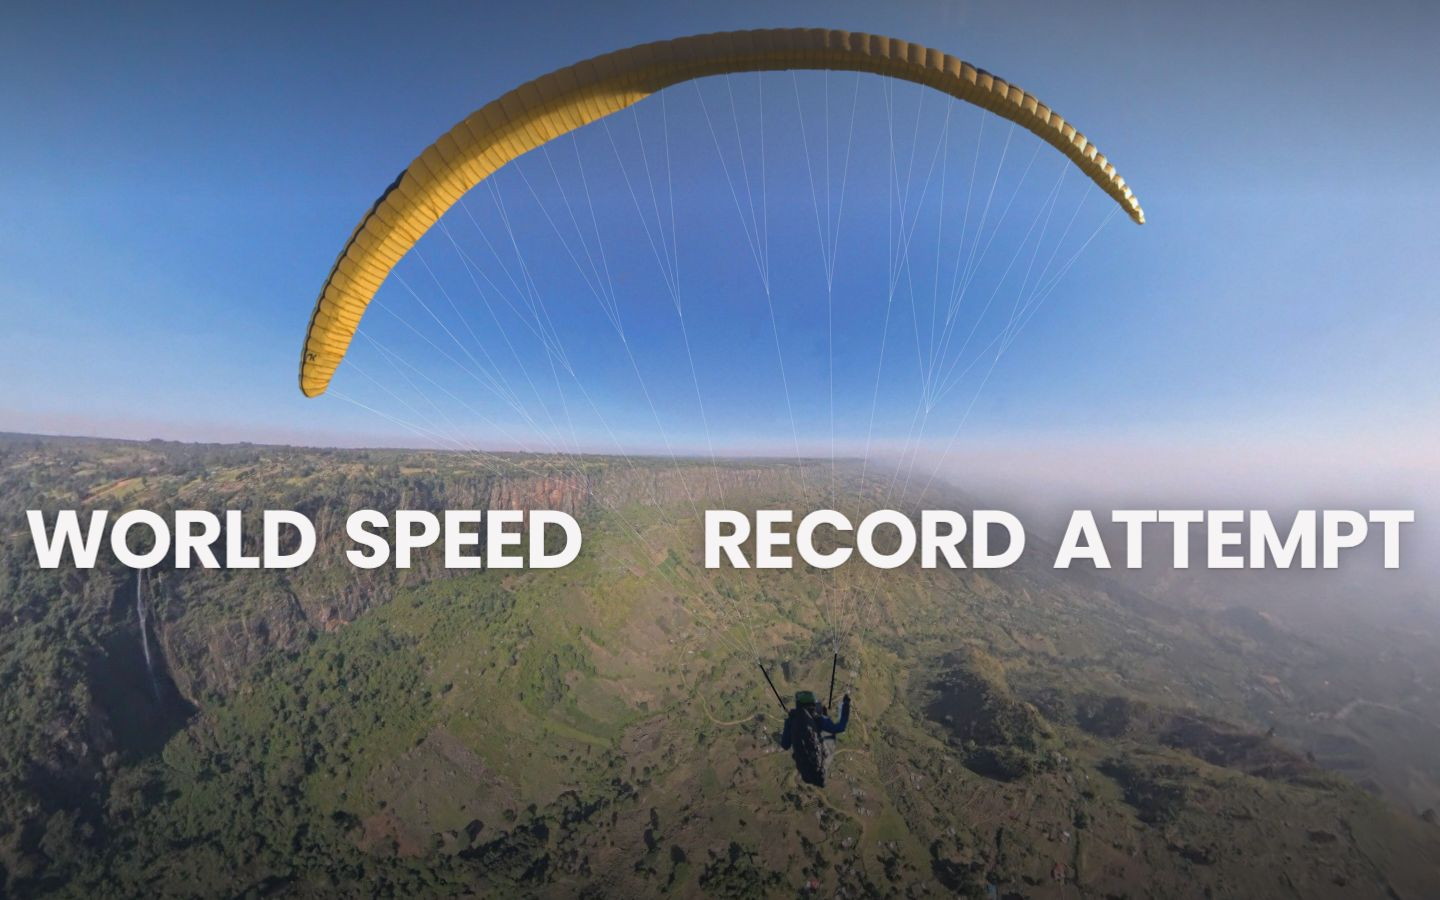
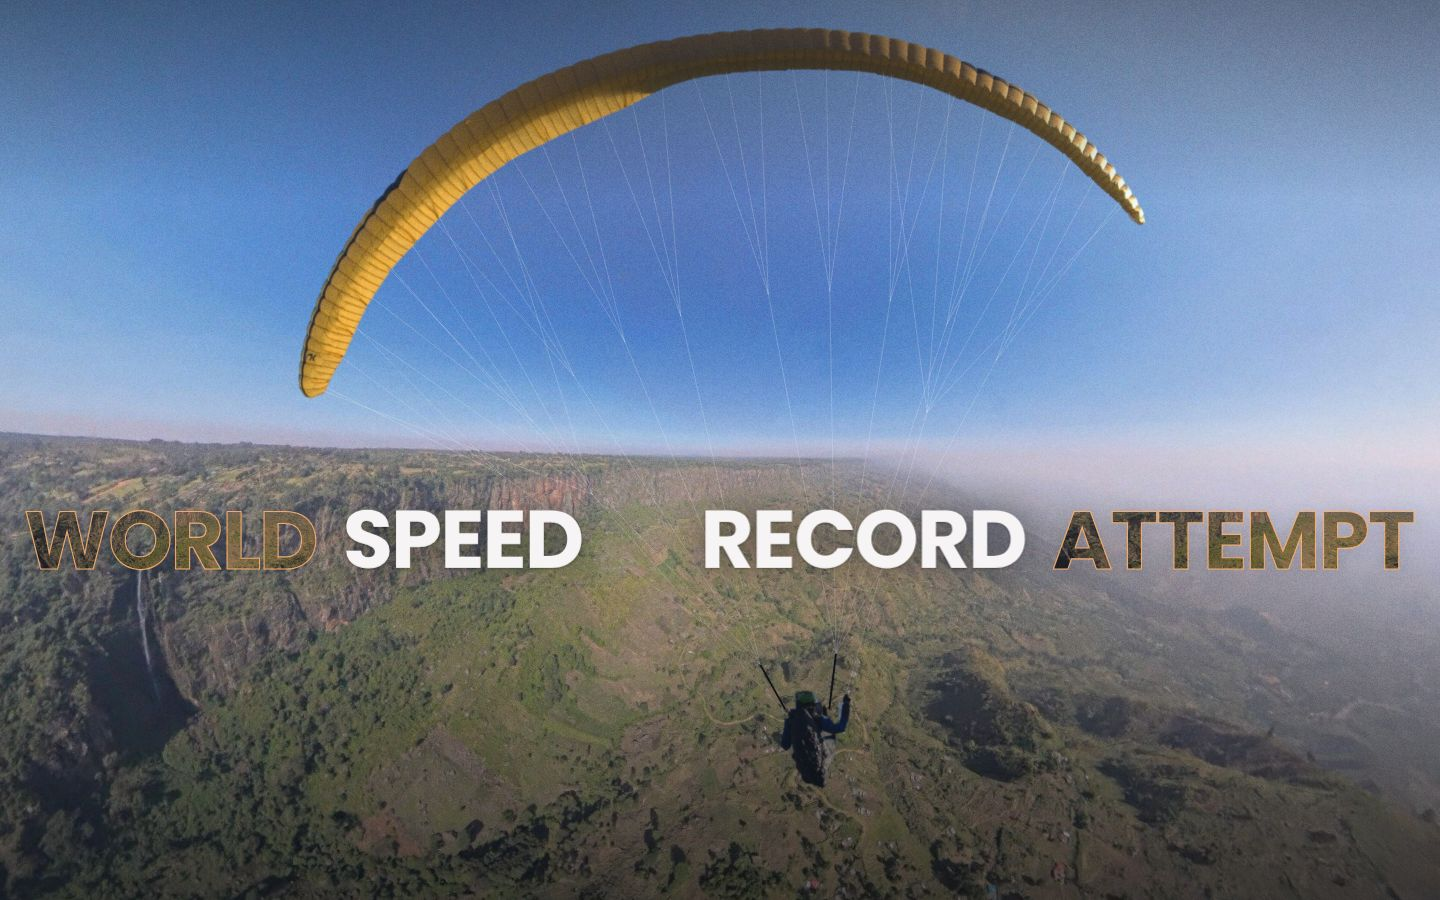
v4 Speed Record: the letterbox opening, and a title whose outer words rack from glass to focus to rock (owner)
The curtain's two panels are gone: the hero now opens as a widescreen frame, a thin slit of the
Kerio photograph that opens through 2.39:1 to the whole screen, with soft anamorphic light along
its edges, fine grain and the exposure rising from dark, the photograph's own depth move as the
push-in. SPEED RECORD stays solid white and sharp; WORLD and ATTEMPT recede and change with the
scroll, blended both ways: frosted glass in the slit, then soft focus behind the wing as the frame
opens, then the escarpment inside the letters with a warm hairline. Same reading order, the same
grow and split, four rows on a phone.

- record-hero.js and record-hero.css: the opening and the title; the doors and the seam removed.
  The title's photograph loads through the same BASE prefix as the hero's other files.
- record-attempt.html: only the hero's markup (the frame's bars, the title canvas, the grain);
  the rest of the page, the sky pictures' IMGS line included, is as on main.
- img/record/hero/still-1.jpg and still-3.jpg: the still frames redrawn with the new title.

Claude-Session: https://claude.ai/code/session_014sbQF9W1CqGXbH3oHgNsEB

Changed region(s): [[0.7188, 0.56, 1.0, 0.6533], [0.0, 0.56, 0.2188, 0.6533]]

diff --git a/prototypes/v4/record-hero.js b/prototypes/v4/record-hero.js
@@ -1,5 +1,5 @@
 /* The Speed Record hero on record-attempt.html (styles in record-hero.css; data from tools/v4_record_hero_prep.py):
-   the curtain opens on the Kerio photograph, which moves in depth as the visitor scrolls; the push into his seat;
+   a widescreen frame opens on the Kerio photograph, which moves in depth as the visitor scrolls; the push into his seat;
    then his logged run of 6 Feb 2025 over the escarpment, drawn from open terrain heights alone, with record pace
    (36.22 km/h) as a second light. Nothing moves unless the visitor scrolls. window.__snap (still frames only)
    makes the scroll's spring and the camera land at once. */
@@ -14,6 +14,64 @@ const $ = id => document.getElementById('srh-' + id);
    cannot rewrite inside a script; three.js is imported relative to this file */
 const BASE = (/^(.*\/prototypes\/v\d+\/)/.exec(location.pathname) || [0, '/assets/v4/'])[1], HERO = BASE + 'img/record/hero/';
 const LIVE = document.documentElement.classList.contains('wr-pin');     // set by the page when it may move: otherwise the still frames
+{                                       // fine film grain over the opening: one tile of noise, moved only with the scroll
+  const c = document.createElement('canvas'); c.width = c.height = 200; const x = c.getContext('2d'), d = x.createImageData(200, 200);
+  let sd = 7; for (let i = 0; i < d.data.length; i += 4) { sd = (sd * 16807) % 2147483647; const v = 128 + ((sd / 2147483647) - .5) * 190; d.data[i] = d.data[i + 1] = d.data[i + 2] = v; d.data[i + 3] = 255; }
+  x.putImageData(d, 0, 0); addEventListener('DOMContentLoaded', () => { $('grain').style.backgroundImage = `url(${c.toDataURL()})`; });
+}
+/* the title: SPEED RECORD solid white and sharp; WORLD and ATTEMPT recede, and change as the frame opens: frosted glass in
+   the slit, then soft and dim as the lens pulls focus past them (the wing and its lines in front), then settling into the
+   escarpment itself, warm inside the letters. Bound to the scroll, every step blended, so it runs the same both ways. */
+let TIMG = null, TPOS = null;
+function titleSetup() {
+  if (titleSetup.done) return; titleSetup.done = true;
+  $('wa').classList.add('srh-rec'); $('wd').classList.add('srh-rec');
+  TIMG = new Image(); TIMG.onload = kick; TIMG.src = HERO + 'plate.jpg';
+}
+function drawTitle(M, bright) {
+  const cv = $('tcv'), r = Math.min(devicePixelRatio || 1, 2), w = Math.round(W * r), h = Math.round(H * r);
+  if (cv.width !== w || cv.height !== h) { cv.width = w; cv.height = h; }
+  const c = cv.getContext('2d'); c.setTransform(1, 0, 0, 1, 0, 0); c.clearRect(0, 0, w, h);
+  if (!TPOS || !TIMG || !TIMG.complete || TPOS.exitK >= 1) return;
+  const { fs, ls, pos, exitK, eO } = TPOS, fade = 1 - exitK;
+  const wa = 1 - ss(seg(eO, .3, .5)), wc = ss(seg(eO, .62, .85)), wb = Math.max(0, 1 - wa - wc);
+  // each look comes in over the last, which stays at full strength until it is covered: the letters never thin out on the way
+  const ka = Math.min(1, 2 * wa), kb = Math.min(1, 2 * wb), kc = Math.min(1, 2 * wc);
+  const font = `700 ${fs}px Poppins`, spc = (ls * fs) + 'px';
+  const words = [['wa', 'WORLD', -1], ['wd', 'ATTEMPT', 1]].map(([id, t, side]) => ({ t, x: pos[id][0] + side * exitK * W * .6, y: pos[id][1] + fs * .78 }));
+  const text = (cx, stroke) => { cx.font = font; try { cx.letterSpacing = spc; } catch (e) {} cx.textBaseline = 'alphabetic'; for (const q of words) stroke ? cx.strokeText(q.t, q.x, q.y) : cx.fillText(q.t, q.x, q.y); };
+  const buf = id => {
+    const b = drawTitle[id] || (drawTitle[id] = document.createElement('canvas')); if (b.width !== w || b.height !== h) { b.width = w; b.height = h; }
+    const x = b.getContext('2d'); x.setTransform(1, 0, 0, 1, 0, 0); x.globalCompositeOperation = 'source-over'; x.filter = 'none'; x.clearRect(0, 0, w, h); x.setTransform(r, 0, 0, r, 0, 0); return [b, x];
+  };
+  // both words in one mask (cutting with each in turn would leave only where they overlap)
+  const [mk, mc] = buf('mk'); mc.fillStyle = '#000'; text(mc);
+  const fill = paint => { const [b, x] = buf('off'); paint(x); x.setTransform(1, 0, 0, 1, 0, 0); x.globalCompositeOperation = 'destination-in'; x.drawImage(mk, 0, 0); return b; };
+  c.setTransform(r, 0, 0, r, 0, 0);
+  // a soft shadow under the letters, so they hold on sky and on rock
+  c.save(); c.globalAlpha = fade * (.35 + .65 * (wa + wc)); c.shadowColor = 'rgba(6,8,12,.45)'; c.shadowBlur = 22; c.shadowOffsetY = 4; c.fillStyle = 'rgba(6,8,12,.3)'; text(c); c.restore();
+  if (wa > .003) {        // a: frosted glass, the photograph behind seen blurred and lifted, a light edge
+    const lift = .1 + .25 * (1 - bright);
+    const b = fill(x => {
+      x.filter = `blur(10px) brightness(${(1.12 * bright).toFixed(3)}) saturate(.8)`; x.drawImage(TIMG, L.tx, L.ty, 1920 * L.s, 1080 * L.s); x.filter = 'none';
+      x.fillStyle = `rgba(246,244,244,${lift.toFixed(3)})`; x.fillRect(0, 0, W, H); x.fillStyle = 'rgba(20,21,25,.14)'; x.fillRect(0, 0, W, H);
+    });
+    c.globalAlpha = fade * ka; c.drawImage(b, 0, 0, W, H); c.lineWidth = 1.1; c.strokeStyle = 'rgba(255,255,255,.5)'; text(c, true);
+  }
+  if (wb > .003) {        // b: out of focus, dimmer
+    c.save(); c.globalAlpha = fade * kb; c.filter = 'blur(1.4px)'; c.fillStyle = 'rgba(232,230,230,.82)'; text(c); c.restore();
+  }
+  if (wc > .003) {        // c: the escarpment's cliffs, darker and warm, inside the letters, a warm hairline
+    c.font = font; try { c.letterSpacing = spc; } catch (e) {}
+    const tw = words.map(q => c.measureText(q.t).width);
+    const b = fill(x => { x.filter = 'brightness(.7) sepia(.35) saturate(1.35) contrast(1.15)'; words.forEach((q, i) => x.drawImage(TIMG, 260, 560, 900, 260, q.x - 4, q.y - fs * .78, tw[i] + 8, fs * .86)); x.filter = 'none'; });
+    c.globalAlpha = fade * kc; c.drawImage(b, 0, 0, W, H); c.lineWidth = 1.1; c.strokeStyle = 'rgba(255,178,112,.9)'; text(c, true);
+  }
+  c.globalAlpha = 1;
+  if (wb > .003 && M) {   // while out of focus they sit behind the wing: its shape is cut out of them
+    c.save(); c.globalAlpha = kb * (1 - kc); c.globalCompositeOperation = 'destination-out'; c.setTransform(r * M[0], r * M[1], r * M[2], r * M[3], r * M[4], r * M[5]); c.drawImage($('wing'), 0, 0); c.restore();
+  }
+}
 const clamp = (x, a = 0, b = 1) => Math.min(b, Math.max(a, x));
 const lerp = (a, b, t) => a + (b - a) * t;
 const seg = (x, a, b) => clamp((x - a) / (b - a));
@@ -53,7 +111,7 @@ function layout() {
   for (const id of ['wa', 'wb', 'wc', 'wd']) { const el = $(id); el.style.fontSize = '100px'; el.style.letterSpacing = '-.025em'; em[id] = (el.offsetWidth + 2.5) / 100; }
   const g = parseFloat(getComputedStyle(document.documentElement).getPropertyValue('--gut')) || 24, SP = .3;
   const line = em.wa + em.wb + em.wc + em.wd + 2 * SP;
-  // closed: one line across the seam; open: one line edge to edge on a wide screen, four stacked lines on a phone
+  // in the slit: one small line; open: one line edge to edge on a wide screen, four stacked lines on a phone
   const ls0 = phone ? .3 : .5, chars = 25;
   L.fs0 = phone ? Math.min(W * .05, (W / 2 - g - 20) / (Math.max(em.wa, em.wb, em.wc, em.wd) + ls0 * 7)) : Math.min(W * .026, 38, (W - 2 * g - 40) / (line + ls0 * chars)); L.ls0 = ls0;
   L.fs = phone ? Math.min(W * .16, (W - 2 * g) / Math.max(em.wa, em.wb, em.wc, em.wd)) : Math.min(H * .17, (W - 2 * g - W * .08) / line);
@@ -542,22 +600,24 @@ function frame(now) {
   const u = uS;
   const eO = seg(u, 0, U_OPEN), eG = seg(u, U_OPEN * .4, U_GLIDE), eT = seg(u, U_GLIDE, U_TRANS), eE = seg(u, U_FLY, U_END);
 
-  /* the curtain: two panels part, a little toward the viewer, light through the seam */
-  const o = io(eO), gap = o * W * .5;
-  const ang = Math.sin(Math.PI * Math.min(1, eO * 1.15)) * 9 + o * 6;
-  $('dl').style.transform = `translate3d(${-gap}px,0,${o * 60}px) rotateY(${ang}deg)`;
-  $('dr').style.transform = `translate3d(${gap}px,0,${o * 60}px) rotateY(${-ang}deg)`;
-  $('doors').style.visibility = eO >= 1 ? 'hidden' : 'visible';
-  const sk = 1 - seg(eO, .05, .55);
-  $('seam').style.opacity = sk; $('seam').style.transform = `scaleX(${1 + 30 * o})`;
+  /* the opening: a widescreen frame opening out, a thin slit, then 2.39:1, then the whole screen; flares along its edges,
+     the exposure rising from dark; the push-in is the photograph's own depth move (below), so the frame never shows its edges */
   $('cue').style.opacity = 1 - seg(eO, .02, .12);
-  // the photograph pushes forward as the panels open, and lights up
-  const push = lerp(.9, 1.0, out(eO));
-  $('photo').style.transform = push < 1 ? `scale(${push})` : '';
-  $('photo').style.filter = eO < 1 ? `brightness(${lerp(.55, 1, out(eO)).toFixed(3)})` : 'none';
-  $('plate').style.transform = `translate3d(${L.tx}px,${L.ty}px,0) scale(${L.s})`;
-  // the words: grow, tracking tightens, the halves ride the panels to the edges
   {
+    const slit = H * (phone ? .03 : .04), lb = Math.min(H, W / 2.39);
+    const h = lerp(lerp(slit, lb, ss(seg(eO, 0, .42))), H, io(seg(eO, .38, 1)));
+    const bar = Math.max(0, (H - h) / 2);
+    for (const id of ['lbt', 'lbb']) { const el = $(id); el.style.display = 'block'; el.style.height = bar + 'px'; el.style.visibility = bar > 0 ? 'visible' : 'hidden'; }
+    const fl = (1 - seg(eO, .8, 1)) * (.55 + .45 * ss(seg(eO, 0, .3)));
+    for (const el of document.querySelectorAll('.srh-lb i, .srh-lb em')) el.style.opacity = fl;
+    $('grain').style.opacity = eT < 1 ? .09 : 0; $('grain').style.backgroundPosition = `${(u * 9137) % 200}px ${(u * 5651) % 200}px`;
+  }
+  const push = 1, bright = lerp(.3, 1, ss(seg(eO, .03, .95)));
+  $('photo').style.filter = eO < 1 ? `brightness(${bright.toFixed(3)})` : 'none';
+  $('plate').style.transform = `translate3d(${L.tx}px,${L.ty}px,0) scale(${L.s})`;
+  // the words: grow from the slit, tracking tightens, the halves ride out to the edges
+  {
+    titleSetup();
     let fs = lerp(L.fs0, L.fs, out(seg(eO, 0, .85))), ls = lerp(L.ls0, -.025, out(seg(eO, 0, .9))), g = L.g, sp = (L.SP + Math.max(0, ls)) * fs;
     const ids = ['wa', 'wb', 'wc', 'wd'], w = {}, pos = {};
     const measure = f => { for (const id of ids) { const el = $(id); el.style.fontSize = f + 'px'; el.style.letterSpacing = ls + 'em'; w[id] = el.offsetWidth - ls * f; } };
@@ -569,7 +629,7 @@ function frame(now) {
     const k = io(seg(eO, .05, 1)), exitK = io(seg(eT, 0, .6));
     if (!phone) {
       // one line: WORLD SPEED | RECORD ATTEMPT, the seam between the halves; the halves ride to the edges
-      const y = lerp(H * .46, H * .6, io(eO)) - fs * .43;
+      const y = lerp(H * .5, H * .6, io(eO)) - fs * .43;
       let cB = W / 2 - 14 - w.wb, cC = W / 2 + 14;
       const ovR = cC + w.wc + sp + w.wd - (W - g); if (ovR > 0) { cB -= ovR; cC -= ovR; }     // the longer right half: the whole line slides to fit
       const ovL = g - (cB - sp - w.wa); if (ovL > 0) { cB += ovL; cC += ovL; }
@@ -580,7 +640,7 @@ function frame(now) {
       Object.assign(pos, { wa: [xa, y], wb: [xb, y], wc: [xc, y], wd: [xd, y] });
     } else {
       // four rows: WORLD and SPEED to the left of the seam, RECORD and ATTEMPT to the right; they ride out to the edges
-      const lh = fs * .9, yc = lerp(H * .46, H * .56, io(eO)) - fs * .43;
+      const lh = fs * .9, yc = lerp(H * .5, H * .56, io(eO)) - fs * .43;
       ids.forEach((id, r) => {
         const left = r < 2, x = left ? lerp(W / 2 - 14 - w[id], g, k) : lerp(W / 2 + 14, W - g - w[id], k);
         pos[id] = [clamp(x, g, W - g - w[id]), yc + (r - 1.5) * lh];
@@ -590,11 +650,12 @@ function frame(now) {
       const side = id === 'wa' || id === 'wb' ? -1 : 1, x = pos[id][0] + side * exitK * W * .6, y = pos[id][1];
       const el = $(id); el.style.transform = `translate3d(${x}px,${y}px,0)`; el.style.opacity = 1 - exitK;
     }
+    TPOS = { fs, ls, pos, exitK, eO };
   }
 
   /* the glide: the land slides back under him, the far ridge drifts, he flies on; then the push into his seat */
   const ready = G && PATH;
-  const gp = eE > 0 ? 0 : ss(eG), jT = io(eT);
+  const gp = eE > 0 ? 0 : Math.max(ss(eG), .35 * ss(eO)), jT = io(eT);
   {
     const th = .016 * Math.sin(Math.PI * 1.5 * gp), sc = 1 + .05 * gp, dr = [(PV[0] - PIL[0]) * .07 * gp, (PV[1] - PIL[1]) * .07 * gp];
     const zoom = eE > 0 ? 1 : lerpLog(1, 7, io(seg(eT, 0, .85)));
@@ -609,6 +670,7 @@ function frame(now) {
     $('photo').style.opacity = photoA; $('photo').style.visibility = photoA > 0 ? 'visible' : 'hidden';
     if (photoA > 0) drawPhoto(eE > 0 ? 0 : .16 * gp + .3 * jT, -.01 * gp, eE > 0 ? 0 : -.03 * jT);
     drawRig(M, push, wingA * (eE > 0 ? 1 : 1 - seg(eT, .2, .5)));
+    drawTitle(M, bright);
   }
   $('veil').style.opacity = 1 - seg(eT, .3, .8) * .45 * (1 - eE);
 

diff --git a/prototypes/v4/record-hero.css b/prototypes/v4/record-hero.css
@@ -1,4 +1,4 @@
-/* The Speed Record hero (record-hero.js): the curtain, the Kerio photograph in depth, the push into his seat,
+/* The Speed Record hero (record-hero.js): the letterbox opening, the Kerio photograph in depth, the push into his seat,
    and his logged run over the escarpment drawn from heights alone. Still frames when motion is off or there is
    no script (the page sets .wr-pin only when it may move). Its own dark tokens: the hero is never light. */
 .srh{--srh-bg:#141519;--srh-card:#202127;--srh-orange:#ff7517;--srh-text:#f6f4f4;--srh-grey:#9a9aa3;--srh-grey-l:#c9c9cf;--srh-gut:clamp(16px,2.6vw,40px);--srh-display:'Poppins',system-ui,sans-serif;--srh-body:'DM Sans',system-ui,sans-serif;--srh-mono:'DM Mono',ui-monospace,monospace}
@@ -17,22 +17,18 @@
 .srh-rig{inset:0;width:100%;height:100%;pointer-events:none}
 .srh-veil{inset:0;pointer-events:none;background:linear-gradient(180deg,rgba(10,12,16,.4) 0%,rgba(10,12,16,0) 22%,rgba(10,12,16,0) 56%,rgba(10,12,16,.6) 100%)}
 
-/* the curtain */
-.srh-doors{inset:0;perspective:1600px;perspective-origin:50% 46%;pointer-events:none}
-.srh-door{position:absolute;top:-2%;height:104%;width:50.5%;background:#141519;will-change:transform;backface-visibility:hidden}
-.srh-door::before{content:"";position:absolute;inset:0;background:repeating-linear-gradient(90deg,rgba(255,255,255,0) 0 23px,rgba(255,255,255,.035) 23px 24px)}
-.srh-door::after{content:"";position:absolute;top:0;bottom:0;width:38%;pointer-events:none}
-.srh-door.srh-l{left:0;transform-origin:0 50%}
-.srh-door.srh-l::after{right:0;background:linear-gradient(90deg,rgba(255,236,214,0),rgba(255,236,214,.07) 70%,rgba(255,236,214,.16))}
-.srh-door.srh-r{right:0;transform-origin:100% 50%}
-.srh-door.srh-r::after{left:0;background:linear-gradient(270deg,rgba(255,236,214,0),rgba(255,236,214,.07) 70%,rgba(255,236,214,.16))}
-.srh-door i{position:absolute;top:0;bottom:0;width:1px;background:linear-gradient(180deg,rgba(255,117,23,0),rgba(255,117,23,.9) 30%,rgba(255,180,120,.9) 50%,rgba(255,117,23,.9) 70%,rgba(255,117,23,0))}
-.srh-door.srh-l i{right:0}.srh-door.srh-r i{left:0}
-.srh-seam{left:50%;top:0;height:100%;width:0;pointer-events:none}
-.srh-seam b{position:absolute;top:0;bottom:0;left:-1px;width:2px;background:linear-gradient(180deg,rgba(255,240,224,0),rgba(255,244,232,.95) 35%,#fff 50%,rgba(255,244,232,.95) 65%,rgba(255,240,224,0))}
-.srh-seam em{position:absolute;top:10%;bottom:10%;left:-90px;width:180px;background:radial-gradient(50% 50% at 50% 50%,rgba(255,236,214,.34),rgba(255,236,214,0));filter:blur(6px)}
 .srh-sr{position:absolute;width:1px;height:1px;overflow:hidden;clip:rect(0 0 0 0);white-space:nowrap}
 .srh-word{left:0;top:0;font-family:var(--srh-display);font-weight:700;line-height:.86;text-transform:uppercase;color:var(--srh-text);white-space:nowrap;will-change:transform,opacity;text-shadow:0 2px 34px rgba(8,10,14,.5),0 1px 3px rgba(8,10,14,.25)}
+/* the opening: a widescreen frame, its edges catching the light */
+.srh-lb{left:0;right:0;top:0;height:0;background:#050506;display:none;pointer-events:none}
+.srh-lb.srh-b{top:auto;bottom:0}
+.srh-lb i{position:absolute;left:0;right:0;bottom:-1px;height:1px;background:linear-gradient(90deg,rgba(255,226,196,0) 4%,rgba(255,236,214,.75) 30%,rgba(255,248,236,.95) 50%,rgba(255,236,214,.75) 70%,rgba(255,226,196,0) 96%)}
+.srh-lb em{position:absolute;left:-10%;right:-10%;bottom:-23px;height:46px;background:radial-gradient(50% 50% at 50% 50%,rgba(255,214,170,.32),rgba(170,200,255,.10) 55%,rgba(170,200,255,0) 100%);filter:blur(5px);mix-blend-mode:screen}
+.srh-lb.srh-b i{bottom:auto;top:-1px}.srh-lb.srh-b em{bottom:auto;top:-23px}
+.srh-grain{inset:-50px;pointer-events:none;opacity:0;mix-blend-mode:overlay;background-size:200px 200px}
+/* the title: WORLD and ATTEMPT are drawn on a canvas over the frame's bars, so they read even outside the slit; their letters stay in the page for layout */
+.srh-tcv{inset:0;width:100%;height:100%;pointer-events:none}
+.srh-word.srh-rec{color:transparent;text-shadow:none}
 .srh-cue{left:50%;bottom:calc(var(--srh-gut) + 4px);transform:translateX(-50%);font:400 11px/1 var(--srh-mono);letter-spacing:.2em;text-transform:uppercase;color:var(--srh-grey-l);text-align:center}
 .srh-cue i{display:block;width:1px;height:28px;background:var(--srh-grey-l);margin:10px auto 0;opacity:.7}
 

diff --git a/prototypes/v4/record-attempt.html b/prototypes/v4/record-attempt.html
@@ -27,7 +27,7 @@
 <link rel="stylesheet" href="../../fonts.css?v=1f73ef11">
 <link rel="stylesheet" href="../../styles.css?v=b084e774">
 <link rel="stylesheet" href="v2.css?v=8f8ced12">
-<link rel="stylesheet" href="record-hero.css?v=428babfb">
+<link rel="stylesheet" href="record-hero.css?v=68e77636">
 <style>
 /* ===== The speed record attempt (tools/v4_record.py) ===== */
 .wr{--wr-top:92px;--wr-bar:56px;--wr-dock:58px;
@@ -638,8 +638,9 @@ footer::after{background:radial-gradient(58% 40% at 68% 36%,color-mix(in srgb,va
     <canvas class="srh-fx" id="srh-fx" aria-hidden="true"></canvas>
     <div class="srh-veil" id="srh-veil"></div>
     <div class="srh-vig" id="srh-vig"></div>
-    <div class="srh-doors" id="srh-doors" aria-hidden="true"><div class="srh-door srh-l" id="srh-dl"><i></i></div><div class="srh-door srh-r" id="srh-dr"><i></i></div></div>
-    <div class="srh-seam" id="srh-seam" aria-hidden="true"><em></em><b></b></div>
+    <div class="srh-lb" id="srh-lbt" aria-hidden="true"><i></i><em></em></div><div class="srh-lb srh-b" id="srh-lbb" aria-hidden="true"><i></i><em></em></div>
+    <canvas class="srh-tcv" id="srh-tcv" aria-hidden="true"></canvas>
+    <div class="srh-grain" id="srh-grain" aria-hidden="true"></div>
     <h1 class="srh-sr">World Speed Record Attempt</h1>
     <span class="srh-word" id="srh-wa" aria-hidden="true">World</span><span class="srh-word" id="srh-wb" aria-hidden="true">Speed</span><span class="srh-word" id="srh-wc" aria-hidden="true">Record</span><span class="srh-word" id="srh-wd" aria-hidden="true">Attempt</span>
     <div class="srh-cue" id="srh-cue">Scroll<i></i></div>
@@ -905,7 +906,7 @@ footer::after{background:radial-gradient(58% 40% at 68% 36%,color-mix(in srgb,va
 <script src="../../script.js?v=1bb85db6"></script>
 <!-- nav-menu -->
 <script defer src="../../nav-menu.js?v=001fbbf6"></script>
-<script type="module" src="record-hero.js?v=7022bff4"></script>
+<script type="module" src="record-hero.js?v=ee9e33ca"></script>
 <!-- /nav-menu -->
 <script>
 /* The speed record attempt (tools/v4_record.py). Every frame here is caused
